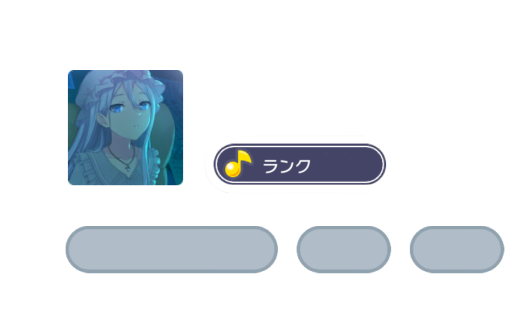
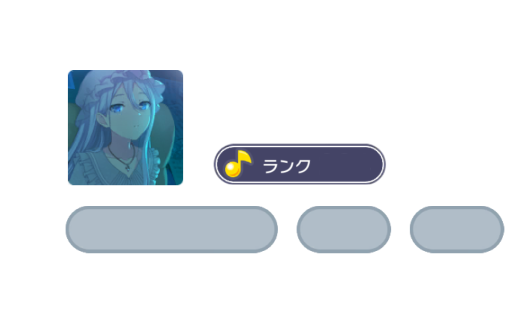
难度排行最后调整（已上线）

diff --git a/modules/musics.py b/modules/musics.py
@@ -10,7 +10,7 @@ import pymysql
 from modules.mysql_config import *
 import aiofiles
 import requests
-from PIL import Image, ImageDraw, ImageFont
+from PIL import Image, ImageDraw, ImageFont, ImageFilter
 from dateutil.tz import tzlocal
 
 from modules.config import proxies
@@ -118,7 +118,8 @@ def levelrank(level, difficulty, fcap=0):
     updatetime = time.localtime(os.path.getmtime(r"masterdata/realtime/musicDifficulties.json"))
     draw.text((20, int(45 + text.count('\n') * 31.5)), '数据来源：https://profile.pjsekai.moe/\nUpdated in '
               + time.strftime("%Y-%m-%d %H:%M:%S", updatetime), '#000000', font)
-    img.save(f'piccache/{level}{difficulty}{fcap}.png')
+    img = img.convert("RGB")
+    img.save(f'piccache/{level}{difficulty}{fcap}.jpg', quality=80)
     return True
 
 
@@ -135,11 +136,15 @@ def levelRankPic(level, difficulty, fcap=0, userid=None, isprivate=False, server
                 target.append(i)
             except KeyError:
                 pass
+
     if fcap == 0:
+        title = f'{difficulty.upper()} {level if level != 0 else ""} 难度表（仅供参考）'
         playLevelKey = "playLevelAdjust"
     elif fcap == 1:
+        title = f'{difficulty.upper()} {level if level != 0 else ""} FC难度表（仅供参考）'
         playLevelKey = "fullComboAdjust"
     else:
+        title = f'{difficulty.upper()} {level if level != 0 else ""} AP难度表（仅供参考）'
         playLevelKey = "fullPerfectAdjust"
 
     target.sort(key=lambda x: x['playLevel'] + x[playLevelKey], reverse=True)
@@ -151,6 +156,7 @@ def levelRankPic(level, difficulty, fcap=0, userid=None, isprivate=False, server
         except KeyError:
             musicData[levelRound] = [music['musicId']]
     profile = None
+    error = False
     if userid is not None:
         profile = userprofile()
         try:
@@ -158,14 +164,30 @@ def levelRankPic(level, difficulty, fcap=0, userid=None, isprivate=False, server
             rankPic = singleLevelRankPic(musicData, difficulty, profile.musicResult, oneRowCount=None if level != 0 else 5)
         except:
             rankPic = singleLevelRankPic(musicData, difficulty, oneRowCount=None if level != 0 else 5)
+            error = True
     else:
         rankPic = singleLevelRankPic(musicData, difficulty, oneRowCount=None if level != 0 else 5)
     rankPic = rankPic.resize((int(rankPic.size[0] / 1.8), int(rankPic.size[1] / 1.8)))
-    pic = Image.new("RGBA", (rankPic.size[0] + 80 if rankPic.size[0] > 520 else 600, rankPic.size[1] + 430), (205, 255, 255, 255))
+    pic = Image.new("RGBA", (rankPic.size[0] + 20 if rankPic.size[0] > 520 else 600, rankPic.size[1] + 430), (205, 255, 255, 255))
+    bg = Image.open('pics/findevent.png')
+    picRatio = pic.size[0] / pic.size[1]
+    bgRatio = bg.size[0] / bg.size[1]
+    if picRatio > bgRatio:
+        bg = bg.resize((pic.size[0], int(pic.size[0] / bgRatio)))
+    else:
+        bg = bg.resize((int(pic.size[1] * bgRatio), pic.size[1]))
+
+    pic.paste(bg, (0, 0))
     userdataimg = Image.open('pics/userdata.png')
     r,g,b,mask = userdataimg.split()
     pic.paste(userdataimg, (0, 0), mask)
-    if profile is not None:
+    draw = ImageDraw.Draw(pic)
+    if error:
+        font_style = ImageFont.truetype("fonts/SourceHanSansCN-Bold.otf", 35)
+        draw.text((215, 65), '获取个人数据发生错误', fill=(0, 0, 0), font=font_style)
+        font_style = ImageFont.truetype("fonts/SourceHanSansCN-Bold.otf", 15)
+        draw.text((218, 114), '可能由于bot网不好或者游戏正在维护', fill=(0, 0, 0), font=font_style)
+    elif profile is not None:
         if isprivate:
             id = '保密'
         else:
@@ -187,7 +209,6 @@ def levelRankPic(level, difficulty, fcap=0, userid=None, isprivate=False, server
             pic.paste(cardimg, (68, 70), mask)
         except FileNotFoundError:
             pass
-        draw = ImageDraw.Draw(pic)
         font_style = ImageFont.truetype("fonts/SourceHanSansCN-Bold.otf", 35)
         draw.text((215, 65), profile.name, fill=(0, 0, 0), font=font_style)
         font_style = ImageFont.truetype("fonts/FOT-RodinNTLGPro-DB.ttf", 15)
@@ -201,7 +222,7 @@ def levelRankPic(level, difficulty, fcap=0, userid=None, isprivate=False, server
                     honorpic = generatehonor(i, True, server)
                     honorpic = honorpic.resize((226, 48))
                     r, g, b, mask = honorpic.split()
-                    pic.paste(honorpic, (59, 226), mask)
+                    pic.paste(honorpic, (59, 206), mask)
                 except:
                     pass
 
@@ -211,7 +232,7 @@ def levelRankPic(level, difficulty, fcap=0, userid=None, isprivate=False, server
                     honorpic = generatehonor(i, False, server)
                     honorpic = honorpic.resize((107, 48))
                     r, g, b, mask = honorpic.split()
-                    pic.paste(honorpic, (290, 226), mask)
+                    pic.paste(honorpic, (290, 206), mask)
                 except:
                     pass
 
@@ -221,13 +242,32 @@ def levelRankPic(level, difficulty, fcap=0, userid=None, isprivate=False, server
                     honorpic = generatehonor(i, False, server)
                     honorpic = honorpic.resize((107, 48))
                     r, g, b, mask = honorpic.split()
-                    pic.paste(honorpic, (403, 226), mask)
+                    pic.paste(honorpic, (403, 206), mask)
                 except:
                     pass
+    else:
+        font_style = ImageFont.truetype("fonts/SourceHanSansCN-Bold.otf", 35)
+        draw.text((215, 65), '未绑定日服账号', fill=(0, 0, 0), font=font_style)
+        font_style = ImageFont.truetype("fonts/SourceHanSansCN-Bold.otf", 15)
+        draw.text((218, 114), '绑定后可查看歌曲成绩', fill=(0, 0, 0), font=font_style)
+
+    font_style = ImageFont.truetype("fonts/SourceHanSansCN-Bold.otf", 30)
+    draw.text((65, 264), title, fill=(0, 0, 0), font=font_style)
 
     r, g, b, mask = rankPic.split()
     pic.paste(rankPic, (40, 320), mask)
-    pic.show()
+
+    font_style = ImageFont.truetype("fonts/SourceHanSansCN-Bold.otf", 23)
+    updatetime = time.localtime(os.path.getmtime(r"masterdata/realtime/musicDifficulties.json"))
+    draw.text((50, pic.size[1] - 110), 'Generated by Unibot', fill='#00CCBB', font=font_style)
+    font_style = ImageFont.truetype("fonts/SourceHanSansCN-Bold.otf", 16)
+    draw.text((50, pic.size[1] - 70), '定数来源：https://profile.pjsekai.moe/   ※定数非官方\n', fill='#00CCBB',
+              font=font_style)
+    draw.text((50, pic.size[1] - 40), f'Updated in {time.strftime("%Y-%m-%d %H:%M:%S", updatetime)}        '
+                                      '※定数每次统计时可能会改变', fill='#00CCBB', font=font_style)
+    pic = pic.convert("RGB")
+    pic.save(f'piccache/{userid}{level}{difficulty}{fcap}.jpg', quality=80)
+    return f'piccache/{userid}{level}{difficulty}{fcap}.jpg'
 
 
 def singleLevelRankPic(musicData, difficulty, musicResult=None, oneRowCount=None):
@@ -253,6 +293,9 @@ def singleLevelRankPic(musicData, difficulty, musicResult=None, oneRowCount=None
     }
     pics = []
 
+    # 总高度 查看所有歌曲时高度适当增加
+    finalHeight = 1750 if oneRowCount is None else 2800
+
     # 每行显示的歌曲数
     if oneRowCount is None:
         oneRowCount = 0
@@ -260,13 +303,20 @@ def singleLevelRankPic(musicData, difficulty, musicResult=None, oneRowCount=None
             if len(musicData[rank]) > oneRowCount:
                 oneRowCount = len(musicData[rank])
 
+    # 每一个难度分开画
     for rank in musicData:
         rows = int((len(musicData[rank]) - 1) / oneRowCount) + 1
-        singleRank = Image.new("RGBA", (oneRowCount * 130 + 100, rows * 130 + 85), (0, 0, 0, 0))
+        singleRank = Image.new("RGBA", (oneRowCount * 130 + 100, rows * 130 + 105), (0, 0, 0, 0))
         draw = ImageDraw.Draw(singleRank)
         font = ImageFont.truetype('fonts/SourceHanSansCN-Bold.otf', 45)
 
-        draw.rectangle((45, 28, oneRowCount * 130 + 80, rows * 130 + 85), fill=(255, 255, 255))
+        shadow = Image.new("RGBA", (oneRowCount * 130 + 45, rows * 130 + 77), (0, 0, 0, 0))
+        shadow.paste(Image.new("RGBA", (oneRowCount * 130 + 35, rows * 130 + 67), (0, 0, 0, 170)), (5, 5))
+        shadow = shadow.filter(ImageFilter.GaussianBlur(4))
+        r, g, b, mask = shadow.split()
+        singleRank.paste(shadow, (45, 30), mask)
+
+        draw.rectangle((45, 28, oneRowCount * 130 + 75, rows * 130 + 90), fill=(255, 255, 255))
 
         draw.ellipse((22, 0, 80, 58), fill=color[difficulty])
         draw.rectangle((51, 0, 134, 58), fill=color[difficulty])
@@ -289,9 +339,7 @@ def singleLevelRankPic(musicData, difficulty, musicResult=None, oneRowCount=None
                 row += 1
         pics.append(singleRank)
 
-    # 总高度
-    finalHeight = 1900 if oneRowCount is None else 2800
-
+    # 将所有难度合并
     height = 0
     for singlePic in pics:
         height += singlePic.size[1]
@@ -304,9 +352,10 @@ def singleLevelRankPic(musicData, difficulty, musicResult=None, oneRowCount=None
             pos[1] = 0
         r, g, b, mask = singlePic.split()
         pic.paste(singlePic, (pos[0], pos[1]), mask)
-        pos[1] += singlePic.size[1]
+        pos[1] += singlePic.size[1] - 20
 
-    #pic.show()
+    # 由于末尾空出的空间相加可能会导致行数+1 这里裁剪一下
+    pic = pic.crop((0, 0, pos[0] + oneRowCount * 130 + 160, pic.size[1]))
     return pic
 
 

diff --git a/bot.py b/bot.py
@@ -31,7 +31,7 @@ from modules.otherpics import geteventpic
 from modules.gacha import getcharaname, getallcurrentgacha, getcurrentgacha, fakegacha
 from modules.homo import generate_homo
 from modules.musics import hotrank, levelrank, parse_bpm, aliastochart, idtoname, notecount, tasseiritsu, findbpm, \
-    getcharttheme, setcharttheme, getPlayLevel
+    getcharttheme, setcharttheme, getPlayLevel, levelRankPic
 from modules.pjskguess import getrandomjacket, cutjacket, getrandomchart, cutchartimg, getrandomcard, cutcard, \
     getrandommusic, cutmusic, getrandomchartold, cutchartimgold, recordGuessRank, guessRank
 from modules.pjskinfo import aliastomusicid, pjskset, pjskdel, pjskalias, pjskinfo, writelog
@@ -793,7 +793,13 @@ def sync_handle_msg(event):
                     fcap = 2
                 else:
                     fcap = 0
-                level = int(re.sub(r'\D', "", event.message))
+                try:
+                    level = int(re.sub(r'\D', "", event.message))
+                except:
+                    if event.message == '难度排行' or fcap in [1, 2]:
+                        level = 0
+                    else:
+                        return
                 diff = 'master'
                 if 'expert' in event.message or 'ex' in event.message:
                     diff = 'expert'
@@ -803,12 +809,14 @@ def sync_handle_msg(event):
                     diff = 'normal'
                 elif 'easy' in event.message or 'ez' in event.message:
                     diff = 'easy'
-                success = levelrank(level, diff, fcap)
-                if success:
-                    sendmsg(event, f"[CQ:image,file=file:///{botdir}/piccache/{level}{diff}{fcap}.png,cache=0]")
+                bind = getqqbind(event.user_id, server)
+
+                if bind is not None:
+                    picdir = levelRankPic(level, diff, fcap, userid=bind[1], isprivate=bind[2], qqnum=event.user_id)
                 else:
-                    sendmsg(event, '参数错误，指令：/难度排行 定数 难度，'
-                                   '难度支持的输入: easy, normal, hard, expert, master，如/难度排行 28 expert /ap难度排行 28 expert')
+                    picdir = levelRankPic(level, diff, fcap,)
+                sendmsg(event, f"[CQ:image,file=file:///{botdir}/{picdir},cache=0]")
+
                 return
         except:
             traceback.print_exc()
